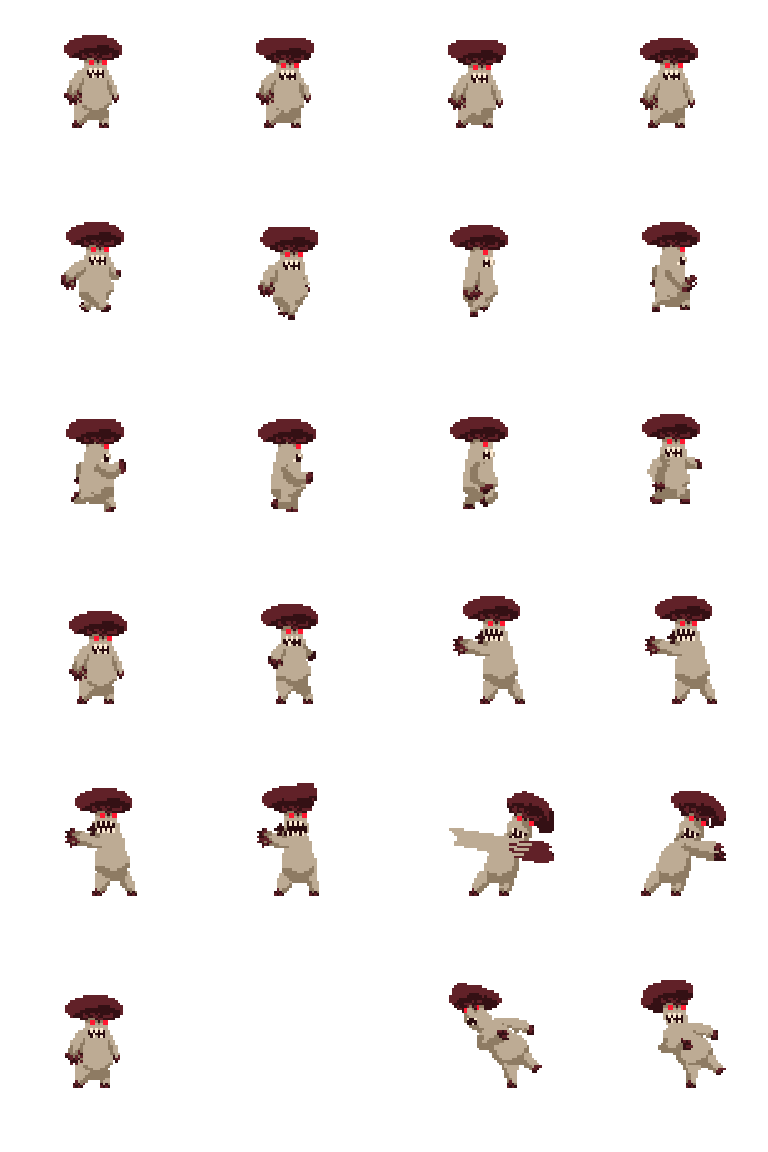
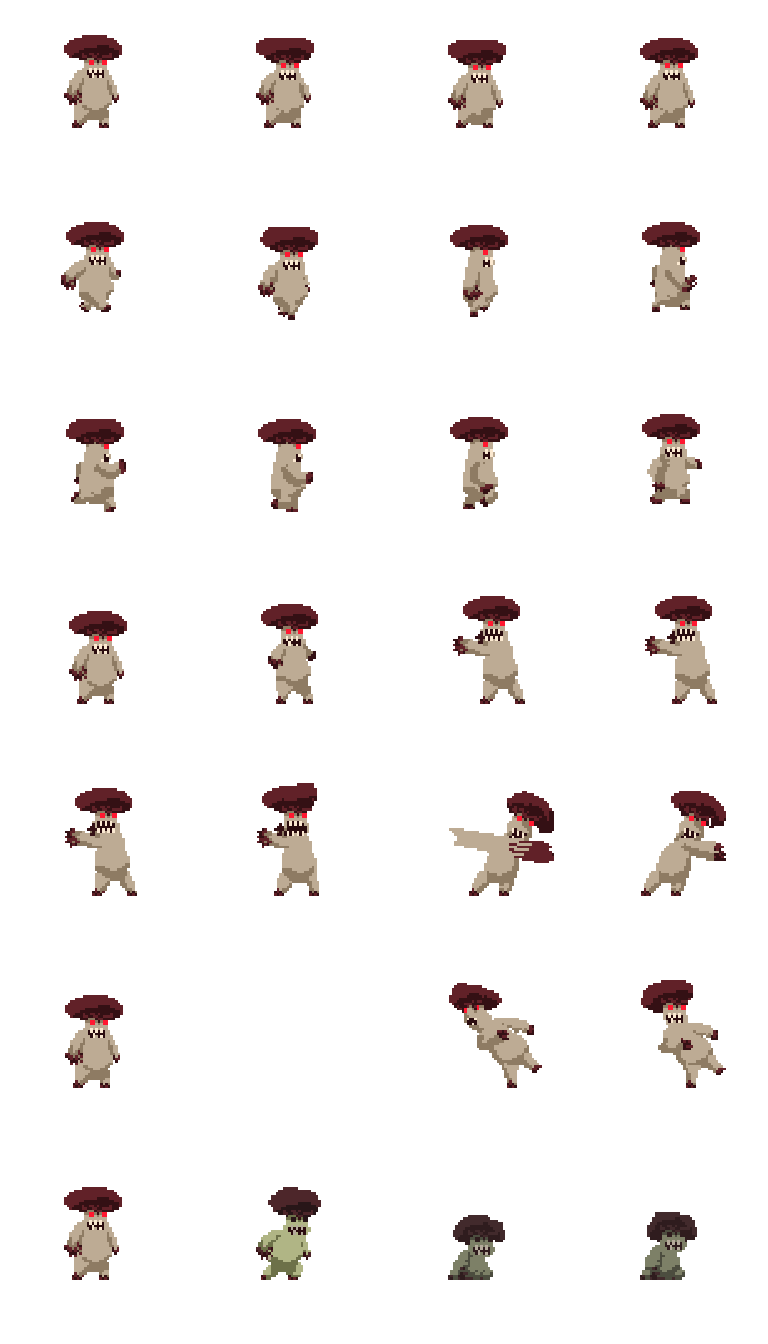
update frame death cho quai va xu ly nguoi choi danh quai

diff --git a/Run_Bro/monster.cpp b/Run_Bro/monster.cpp
@@ -8,37 +8,43 @@ Monster::Monster(float p_x, float p_y, SDL_Texture* p_tex) : Entity(p_x, p_y, p_
 		idlingClips[i].x = i * (currentFrame.w / 4);
 		idlingClips[i].y = 0;
 		idlingClips[i].w = currentFrame.w / 4;
-		idlingClips[i].h = currentFrame.h / 6;
+		idlingClips[i].h = currentFrame.h / 7;
 	}
 	for (int i = 0; i < RUNNING_ANIMATIONS_FRAME; i++) {
 		if (i < 4) {
 			runningClips[i].x = i * (currentFrame.w / 4);
-			runningClips[i].y = (currentFrame.h / 6);
+			runningClips[i].y = (currentFrame.h / 7);
 		}
 		else {
 			runningClips[i].x = (i - 4) * (currentFrame.w / 4);
-			runningClips[i].y = (currentFrame.h / 6) * 2;
+			runningClips[i].y = (currentFrame.h / 7) * 2;
 		}
 		runningClips[i].w = currentFrame.w / 4;
-		runningClips[i].h = currentFrame.h / 6;
+		runningClips[i].h = currentFrame.h / 7;
 	}
 	for (int i = 0; i < ATTACKING_ANIMATIONS_FRAME; i++) {
 		if (i < 4) {
 			attackingClips[i].x = i * (currentFrame.w / 4);
-			attackingClips[i].y = (currentFrame.h / 6) * 3;
+			attackingClips[i].y = (currentFrame.h / 7) * 3;
 		}
 		else {
 			attackingClips[i].x = (i - 4) * (currentFrame.w / 4);
-			attackingClips[i].y = (currentFrame.h / 6) * 4;
+			attackingClips[i].y = (currentFrame.h / 7) * 4;
 		}
 		attackingClips[i].w = currentFrame.w / 4;
-		attackingClips[i].h = currentFrame.h / 6;
+		attackingClips[i].h = currentFrame.h / 7;
 	}
 	for (int i = 0; i < TAKINGHIT_ANIMATIONS_FRAME; i++) {
 		takingHitClips[i].x = i * (currentFrame.w / 4);
-		takingHitClips[i].y = (currentFrame.h / 6) * 5;
+		takingHitClips[i].y = (currentFrame.h / 7) * 5;
 		takingHitClips[i].w = currentFrame.w / 4;
-		takingHitClips[i].h = currentFrame.h / 6;
+		takingHitClips[i].h = currentFrame.h / 7;
+	}
+	for (int i = 0; i < DEATH_ANIMATIONS_FRAME; i++) {
+		deathClips[i].x = i * (currentFrame.w / 4);
+		deathClips[i].y = (currentFrame.h / 7) * 6;
+		deathClips[i].w = currentFrame.w / 4;
+		deathClips[i].h = currentFrame.h / 7;
 	}
 }
 
@@ -90,7 +96,7 @@ void Monster::autoMoveToPlayer(Player& p_player, vector<Map>& p_maps) {
 	else isAttacking = false;
 }
 
-//tu dong di chuyen neu thay player
+//tu dong di chuyen neu khong thay player
 void Monster::autoMove(vector<Map>& p_maps) {
 	if (!isDead && grounded && !takingHit) {
 		if (p_maps[mapIndex].getTiles()[groundIndex + 1]->getType() > 40 && velX > 0) velX = -MONSTER_VEL / 2.0;
@@ -104,10 +110,12 @@ void Monster::autoMove(vector<Map>& p_maps) {
 	}
 }
 
-void Monster::update(RenderWindow& p_renderwindow, vector<Map>& p_maps, SDL_Rect& camera, Player& p_player) {
+void Monster::update(RenderWindow& p_renderwindow, vector<Map>& p_maps, SDL_Rect& p_camera, Player& p_player) {
 	gravity();
 	autoMove(p_maps);
 	autoMoveToPlayer(p_player, p_maps);
+	beingHit(p_camera, p_player);
+	getHit();
 	//update trang thai monster
 	isIdling = (velX == 0 && grounded && !isAttacking && !isDead && !takingHit);
 
@@ -175,5 +183,36 @@ void Monster::render(RenderWindow& p_renderwindow, SDL_Rect& p_camera) {
 		takeHitFrame++;
 	}
 	else takeHitFrame = 0;
+
+	if (isDead) {
+		p_renderwindow.renderAnimation(*this, deathClips[deathFrame / 8], p_camera, 0, NULL, flipType);
+		if (deathFrame / 8 < DEATH_ANIMATIONS_FRAME - 1) deathFrame++;
+	}
+	else deathFrame = 0;
 }
 
+void Monster::beingHit(SDL_Rect& p_camera, Player& p_player) {
+	cout << health << endl;
+	if (distance <= 1.8 * TILE_WIDTH && p_player.getAttacking() && y >= p_player.getY() - TILE_WIDTH && y <= p_player.getY() + TILE_WIDTH / 2.0) {
+		takingHit = true;
+		--health;
+	}
+
+	if (takeHitFrame / 8 >= TAKINGHIT_ANIMATIONS_FRAME) {
+		takingHit = false;
+		takeHitFrame = 0;
+	}
+
+	if (health < 1 || y + MONSTER_HEIGHT >= MAP_HEIGHT || x - p_camera.x <= 5) {
+		isDead = true;
+		takingHit = false;
+	}
+}
+
+void Monster::getHit() {
+	if (takingHit && takeHitFrame < 1) {
+		velY = -3.2;
+		if (flipType == SDL_FLIP_NONE) velY = -4;
+		else if (flipType == SDL_FLIP_HORIZONTAL) velX = 4;
+	}
+}

diff --git a/Run_Bro/Monster.h b/Run_Bro/Monster.h
@@ -2,6 +2,8 @@
 #include "Entity.h"
 #include "Renderwindow.h"
 #include "Player.h"
+#include <iostream>
+using namespace std;
 
 class Player;
 
@@ -14,7 +16,8 @@ public:
     //tu dong di chuyen, gap vat can thi quay dau lai(thay vuc thi quay lai)
     void autoMove(vector<Map>& p_maps);
     void update(RenderWindow& p_renderwindow, vector<Map>& p_maps, SDL_Rect& camera, Player& p_player);
-    void takeHit();
+    void beingHit(SDL_Rect& p_camera, Player& p_player);
+    void getHit(); //bi danh day lui ra sau
     void render(RenderWindow& p_renderwindow, SDL_Rect& p_camera);
     SDL_Rect getCollision() const;
     void gravity();
@@ -33,19 +36,21 @@ private:
     static const int RUNNING_ANIMATIONS_FRAME = 8;
     static const int ATTACKING_ANIMATIONS_FRAME = 8;
     static const int TAKINGHIT_ANIMATIONS_FRAME = 4;
+    static const int DEATH_ANIMATIONS_FRAME = 4;
 
     //cac frame
     SDL_Rect idlingClips[IDLING_ANIMATIONS_FRAME];
     SDL_Rect runningClips[RUNNING_ANIMATIONS_FRAME];
     SDL_Rect attackingClips[ATTACKING_ANIMATIONS_FRAME];
     SDL_Rect takingHitClips[TAKINGHIT_ANIMATIONS_FRAME];
+    SDL_Rect deathClips[TAKINGHIT_ANIMATIONS_FRAME];
 
-    int idleFrame = 0, runFrame = 0, attackFrame, takeHitFrame = 0;
+    int idleFrame = 0, runFrame = 0, attackFrame = 0, takeHitFrame = 0, deathFrame;
 
     float velX = 0, velY = 0;
     float distance;
 
-    int health = 3;
+    int health = 9;
     int groundIndex = 1, mapIndex = 1;
     bool grounded = false, isIdling = true, isRunning = false, isFalling = true, isAttacking = false, isDead = false, takingHit = false;
 

diff --git a/Run_Bro/player.cpp b/Run_Bro/player.cpp
@@ -246,9 +246,13 @@ bool Player::getDead() {
     return isDead;
 }
 
+bool Player::getAttacking() {
+    return attackFrame / 2 >= 2;
+}
+
 void Player::beingHit(SDL_Rect& p_camera, Monster& p_monster) {
     //nguoi trong tam danh cua quai
-    if ((p_monster.getDistance() <= TILE_WIDTH * 1.2 && p_monster.getAttacking() && y >= p_monster.getY() - TILE_WIDTH && y <= p_monster.getY() + TILE_WIDTH / 2.0))
+    if ((p_monster.getDistance() <= TILE_WIDTH * 1.5 && p_monster.getAttacking() && y >= p_monster.getY() - TILE_WIDTH && y <= p_monster.getY() + TILE_WIDTH / 2.0))
            isDead = true;
 
     //dam vao gai hoac roi xuong

diff --git a/Run_Bro/map.cpp b/Run_Bro/map.cpp
@@ -64,7 +64,7 @@ void Map::setMap(Map& p_map) {
 
 void Map::setTilesType(const char* p_filePath) {
     bool tilesLoaded = true;
-    int n = getX(), m = getY();
+    int n = x, m = y;
     ifstream map(p_filePath);
 
     if (map.fail()) {
@@ -94,9 +94,9 @@ void Map::setTilesType(const char* p_filePath) {
             n += TILE_WIDTH;
 
             //den cuoi map
-            if (n >= getX() + MAP_WIDTH) {
+            if (n >= x + MAP_WIDTH) {
                 //xuong dong
-                n = getX();
+                n = x;
                 m += TILE_HEIGHT;
             }
         }

diff --git a/Run_Bro/renderwindow.cpp b/Run_Bro/renderwindow.cpp
@@ -133,13 +133,9 @@ SDL_Texture* RenderWindow::loadText(string p_text, SDL_Color p_textColor) {
 	else {
 		//create texture text from surface pixels
 		texture = SDL_CreateTextureFromSurface(renderer, textSurface);
-		if (texture == NULL) {
-			printf("Unable to create texture from rendered text! SDL Error: %s\n", SDL_GetError());
-		}
 		SDL_FreeSurface(textSurface);
-		return texture;
 	}
-	return NULL;
+	return texture;
 }
 
 void RenderWindow::display() {

diff --git a/Run_Bro/Player.h b/Run_Bro/Player.h
@@ -19,6 +19,7 @@ public:
     void setCamera(SDL_Rect& p_camera, float& velCam);
     void resetPlayer();
     bool getDead();
+    bool getAttacking();
     //nhan vat bi roi, cham vao gai hoac bi danh boi quai
     void beingHit(SDL_Rect& p_camera, Monster& p_monster);
 private:
